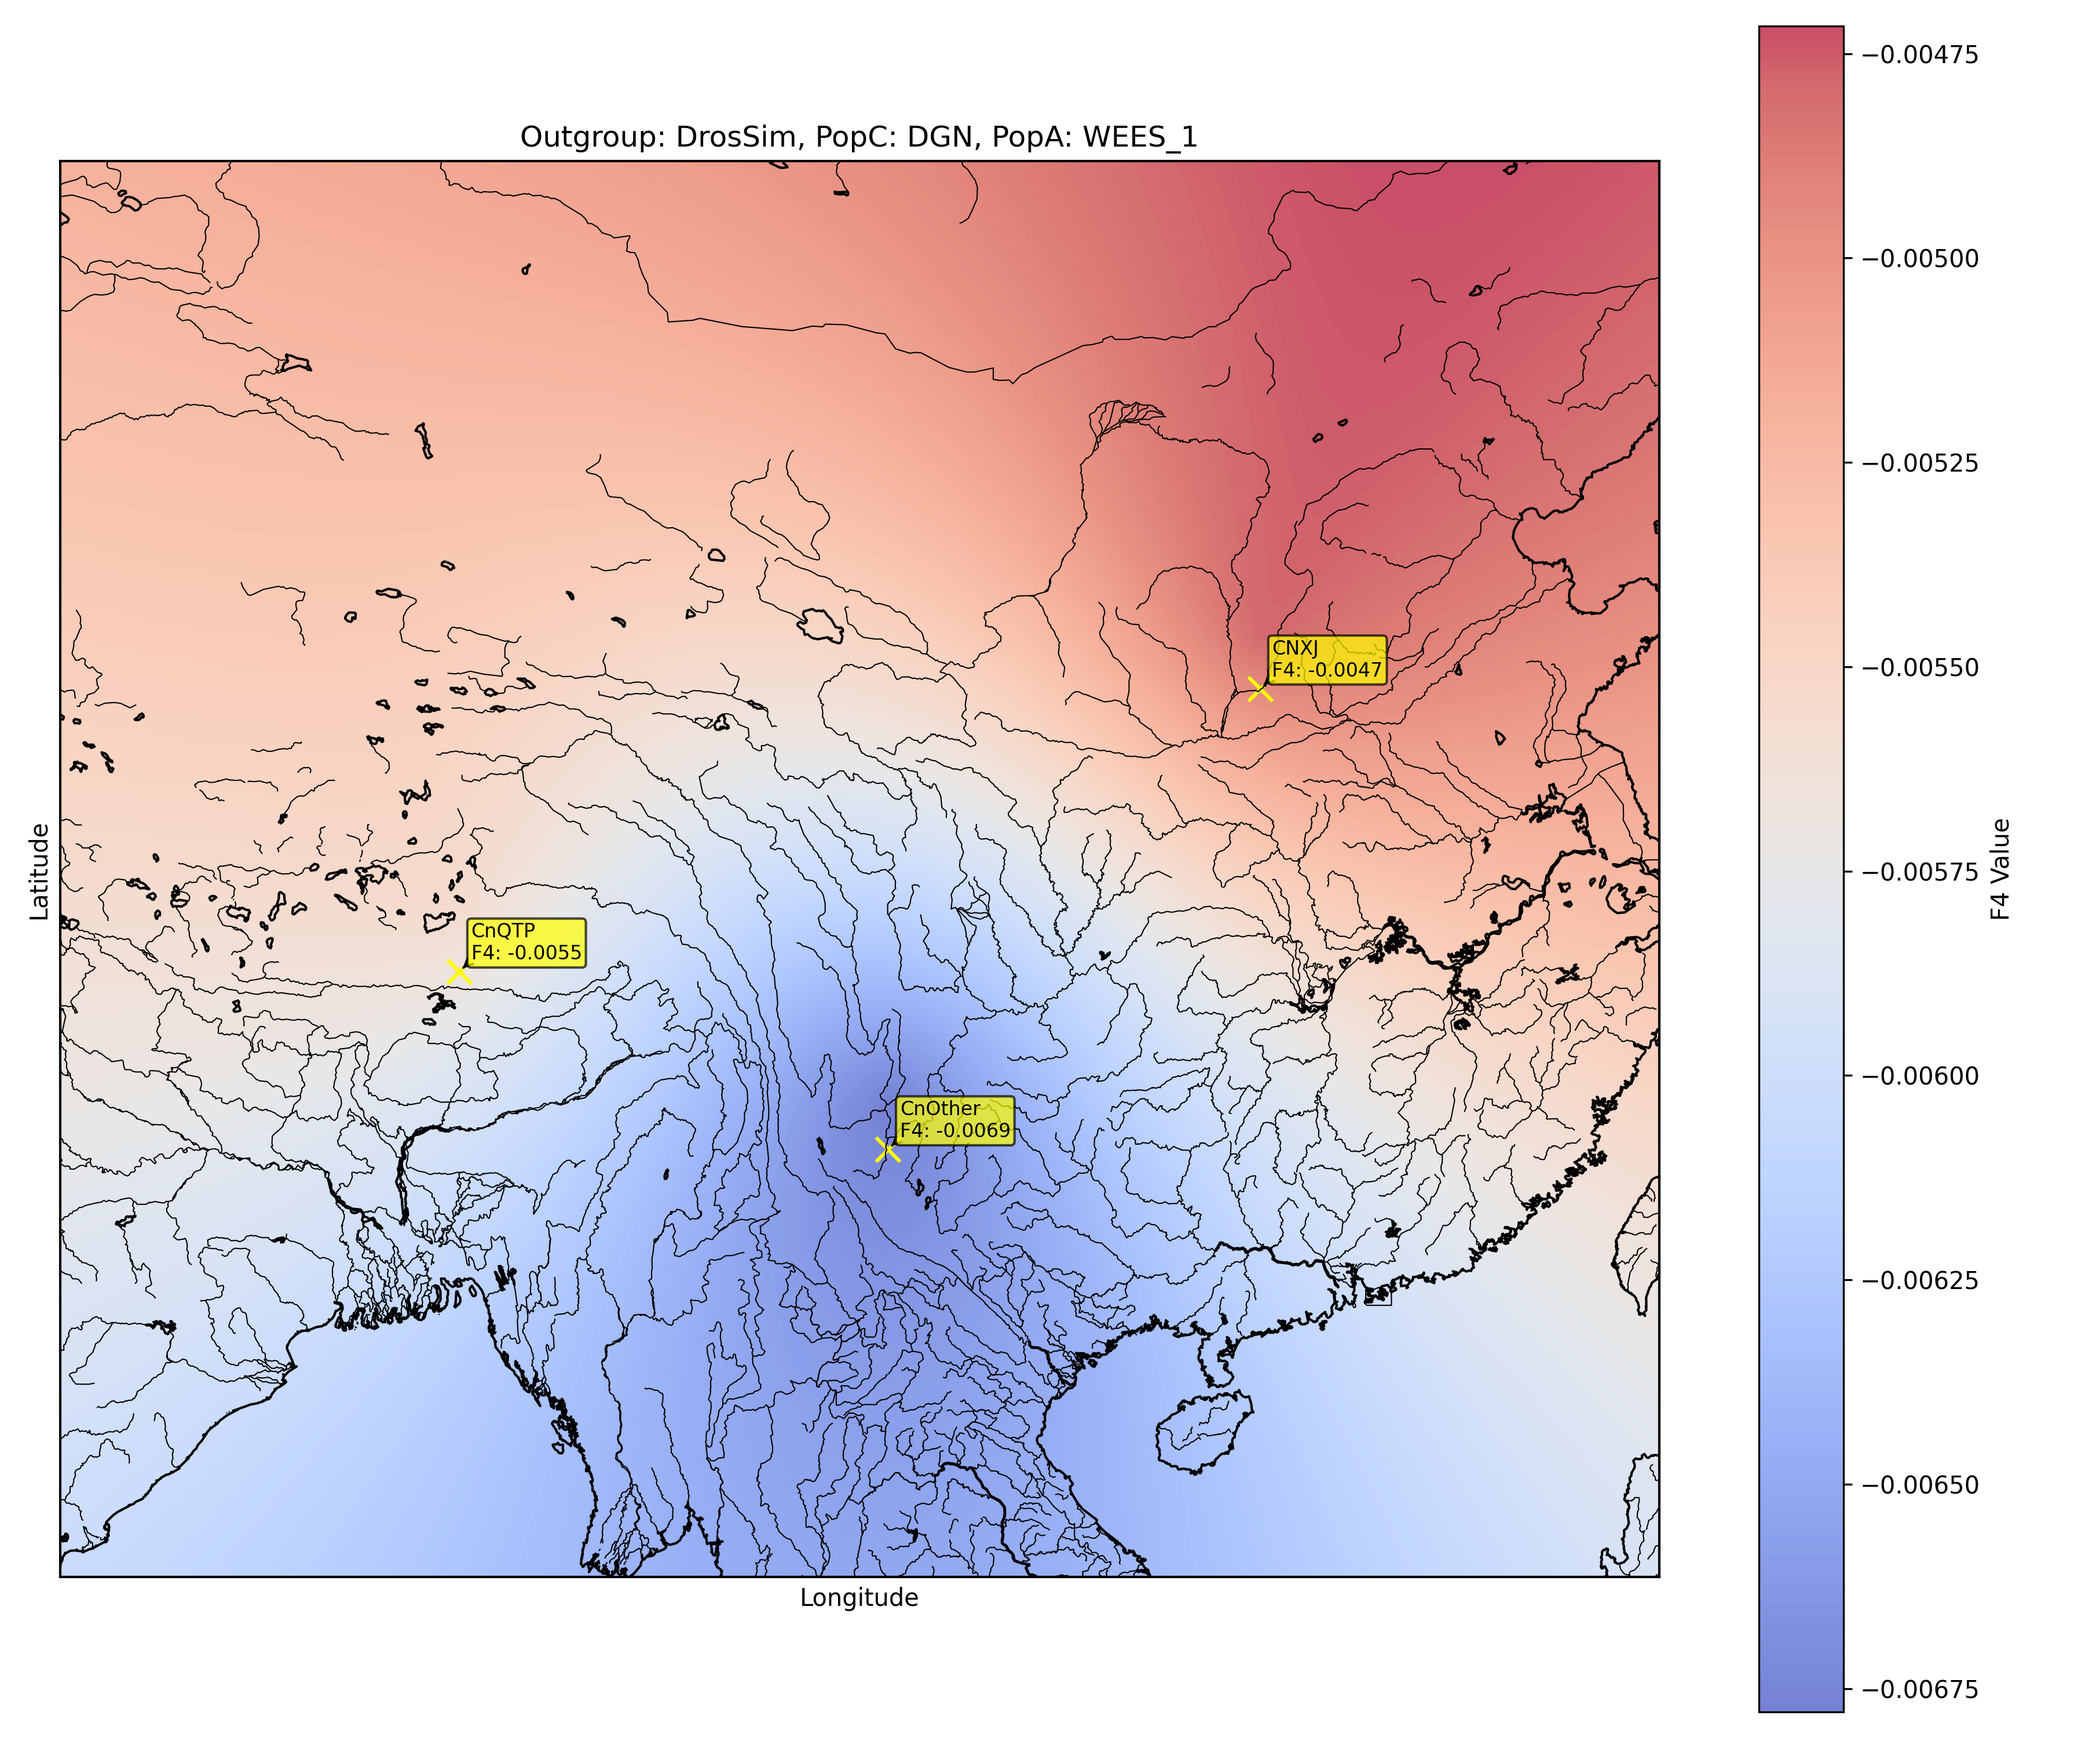
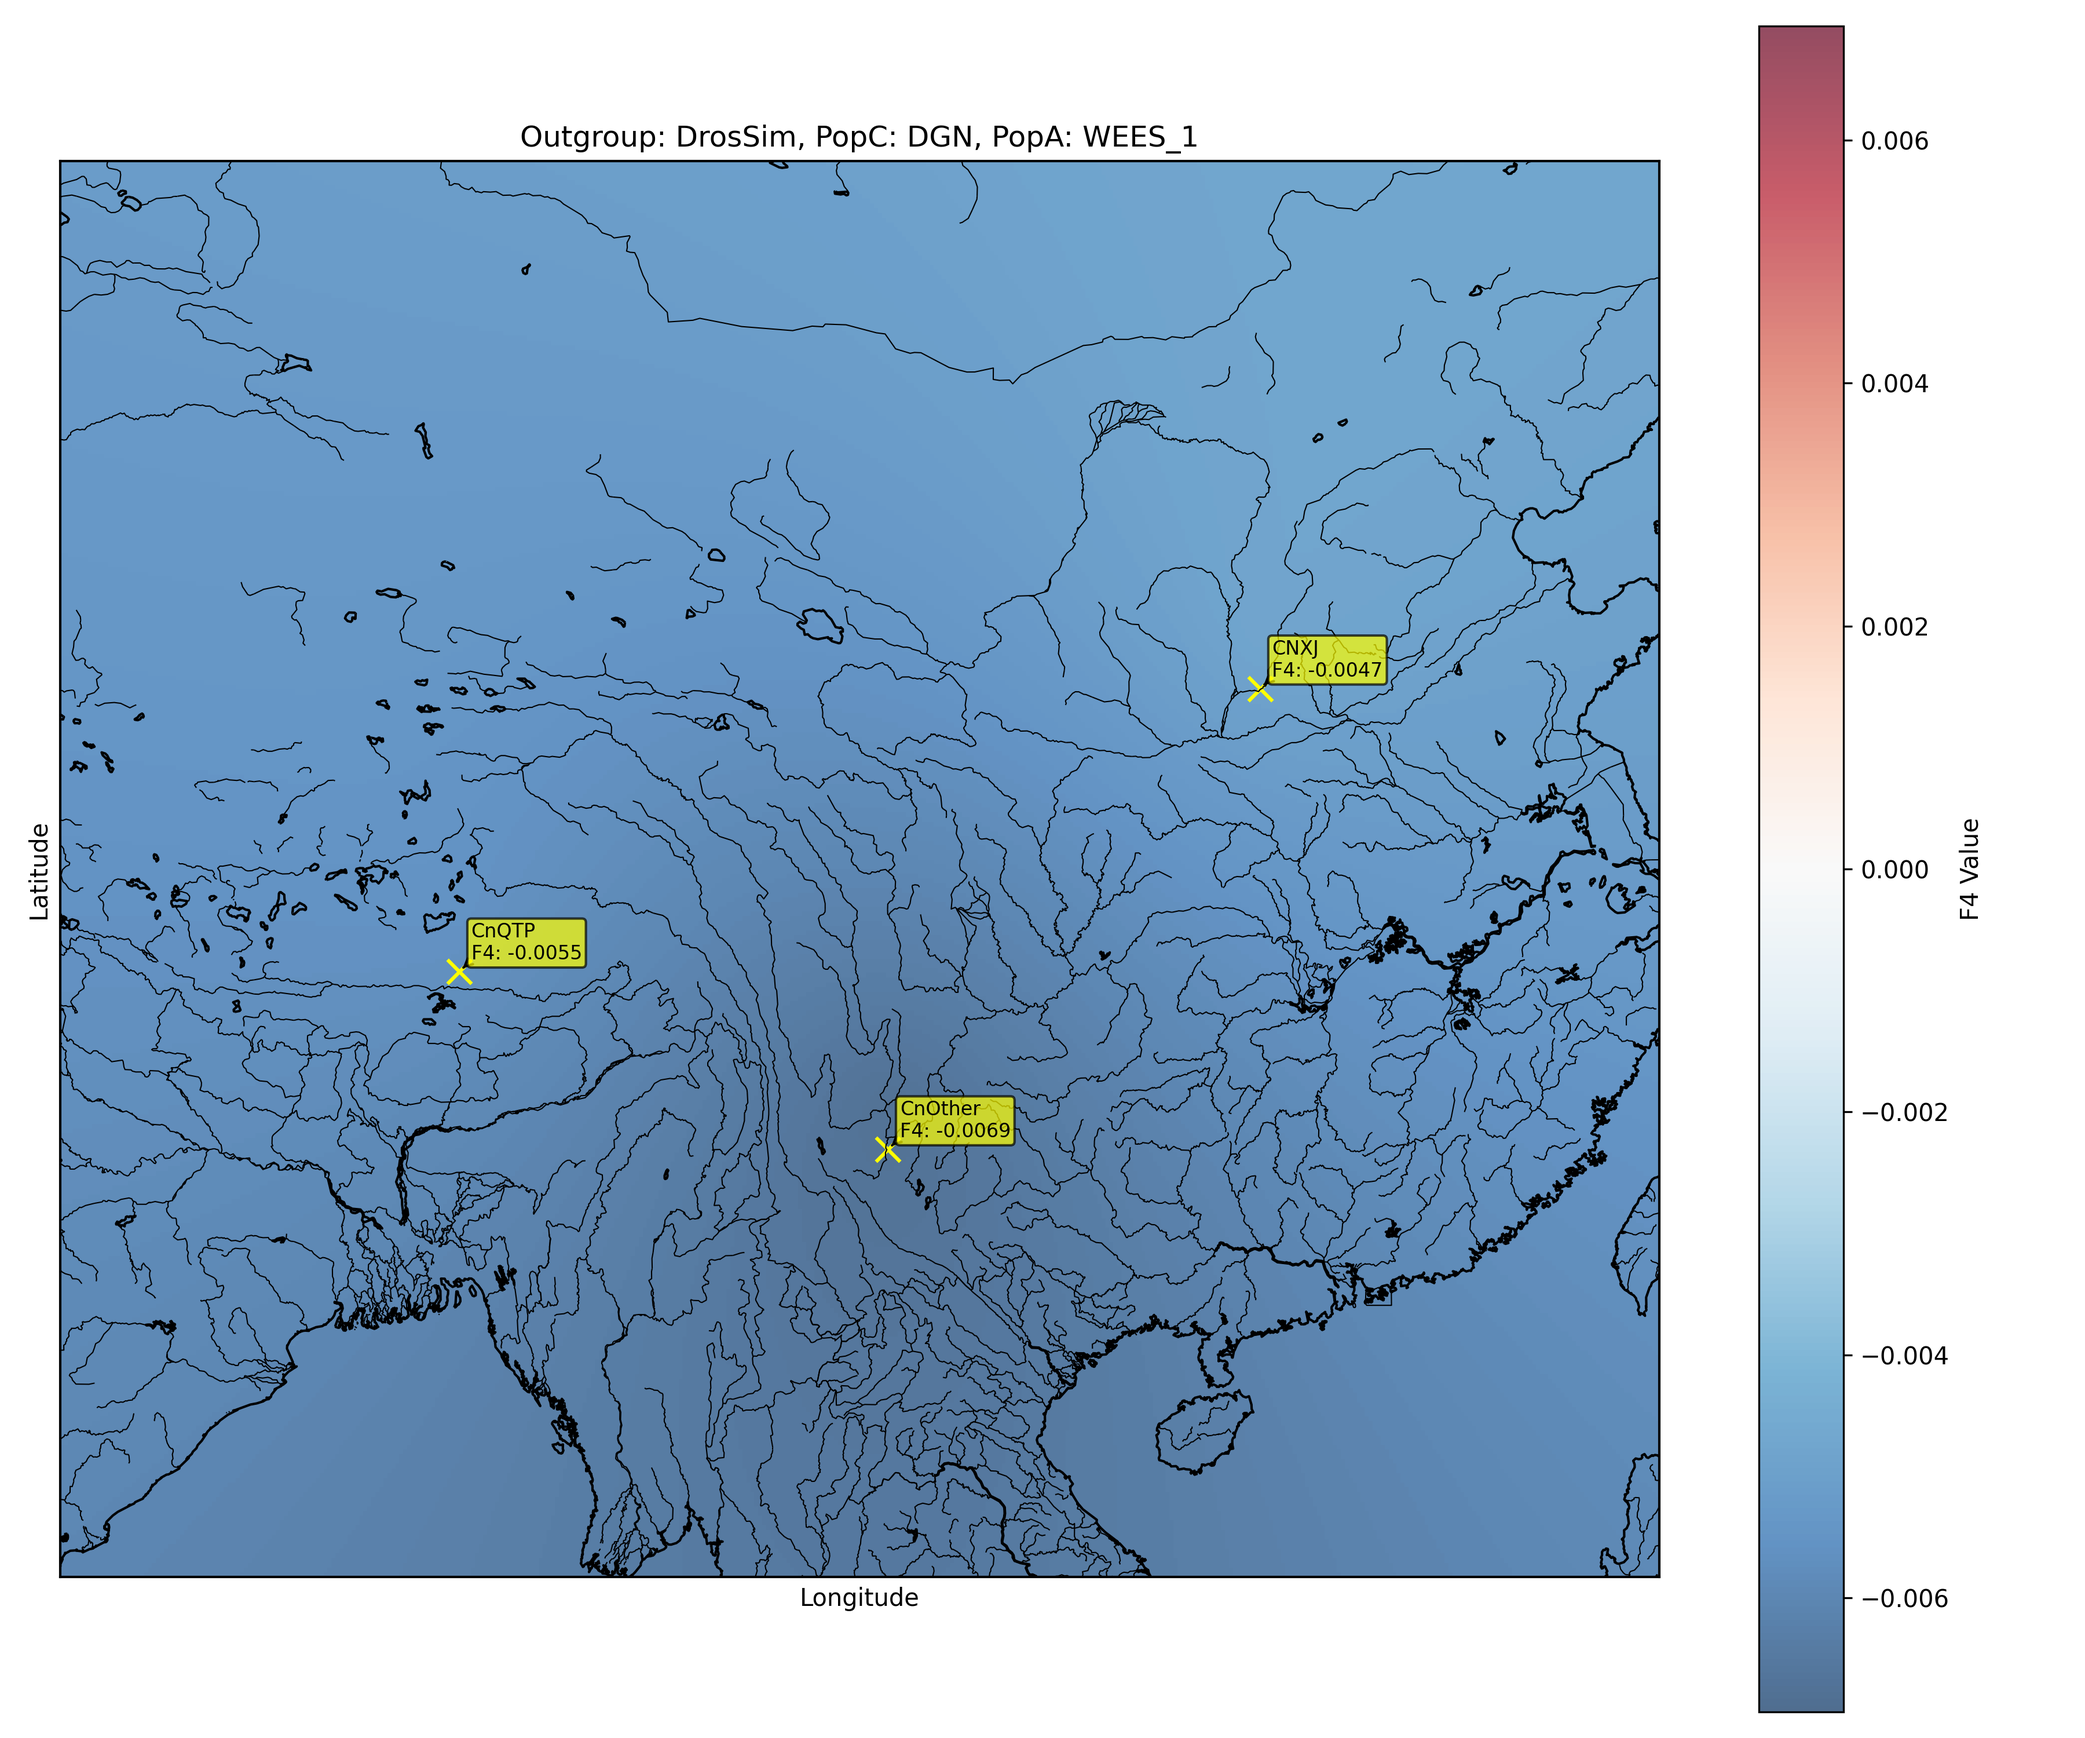
updates

diff --git a/scripts/python/KrigingWithMap.py b/scripts/python/KrigingWithMap.py
@@ -4,15 +4,17 @@ import matplotlib.pyplot as plt
 import pykrige.kriging_tools as kt
 from pykrige.ok import OrdinaryKriging
 from mpl_toolkits.basemap import Basemap  # For basemap functionality
+from matplotlib.colors import Normalize
+from matplotlib import cm
 
 p1 = "DrosSim"
 p2 = "DGN"
-p3 = "WEES_1"
+p3 = "CYP_1"
 continent = "AS"
 
 # Read your data
-df = pd.read_csv("/gatk_modified/userdata/abertelli/drosophila-evolution/data/all_f4stats_wsim.tsv", sep="\t")
-df_pools = pd.read_csv("/gatk_modified/userdata/abertelli/drosophila-evolution/results/pools.csv")
+df = pd.read_csv("../data/all_f4stats_wsim.tsv", sep="\t")
+df_pools = pd.read_csv("../results/pools.csv")
 pops = df_pools["NAME"].to_list() 
 conts = df_pools["CONTINENT"].to_list() 
 pops2cont = {pops[i]: conts[i] for i in range(len(pops))}
@@ -81,8 +83,11 @@ m.drawstates()
 xx, yy = np.meshgrid(gridx, gridy)
 x, y = m(xx, yy)
 
+vmin, vmax = min(data[:,2]), max(data[:,2])
+abs_max = max(abs(vmin), abs(vmax))
+norm = Normalize(vmin=-abs_max, vmax=abs_max)
 # Overlay the heatmap onto the map (make sure the heatmap is not covered)
-im = m.imshow(z, extent=[MINX, MAXX, MINY, MAXY], origin='lower', cmap='coolwarm', alpha=0.7)
+im = m.imshow(z, extent=[MINX, MAXX, MINY, MAXY], origin='lower', cmap="RdBu_r", alpha=0.7, norm=norm)
 
 # Add colorbar for the heatmap
 plt.colorbar(im, label='F4 Value')
